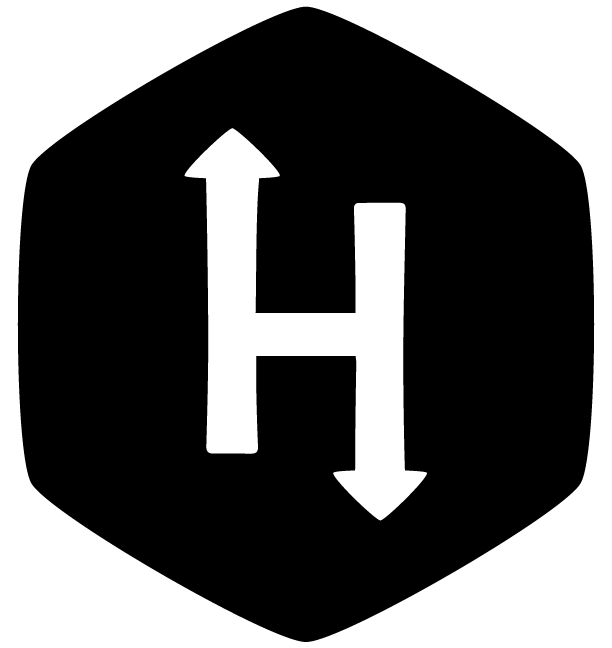
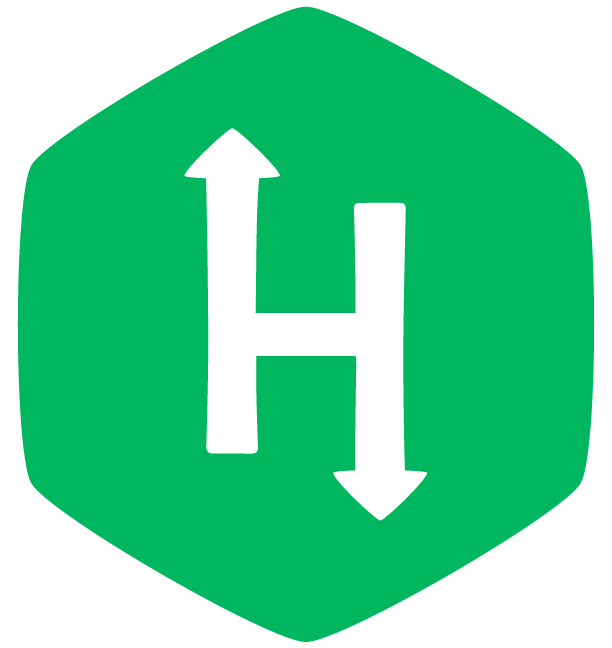
contact icons3

diff --git a/app/less/footer.less b/app/less/footer.less
@@ -20,13 +20,24 @@
     margin: 0 auto;
     li {
       display: inline-block;
-      margin: 20px 20px 2px;
-      padding: 20px 10px 10px;
+      margin: 20px;
+      padding: 10px 10px 10px;
       height: 50px;
       img {
         margin: 0 auto;
         max-width: 100%;
         max-height: 100%;
+
+        // effects
+        filter:grayscale(100%);
+        -webkit-filter: saturate(0%)grayscale(100%)brightness(0%)contrast(1000%);
+        filter: gray ;
+        -webkit-transition: all 3s ease;
+      }
+      img:hover {
+        filter:grayscale(0%);
+        -webkit-filter: grayscale(0%)contrast(100%);
+        //filter:none;
       }
     }
   }
@@ -34,23 +45,30 @@
 .fBlack {
   color: #999;
   text-align: center;
-  font-family: @ptSerif;
-  font-style: italic;
   height: 100px;
   background-color: @grey0;
   span {
     .v-align;
+    font-family: @ptSerif;
+    font-style: italic;
+    font-size: 1em;
     a {
       color: @grey2;
       text-decoration: none;
     }
+    a:hover{
+      color:white;
+    }
   }
   p {
     .v-align;
-    font-size: 0.8em;
+    font-size: .8em;
     a {
       color: @grey1;
       text-decoration: none;
+    }
+    a:hover{
+      color:white;
     }
   }
 }
